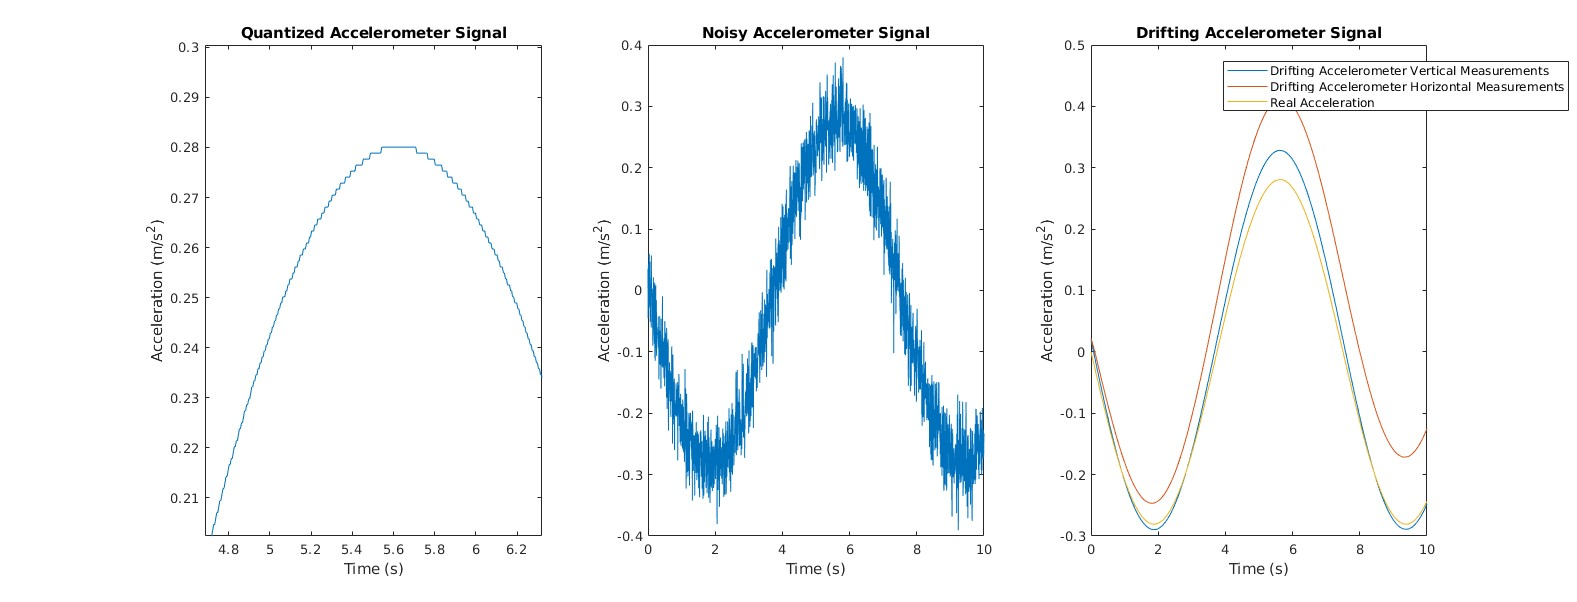
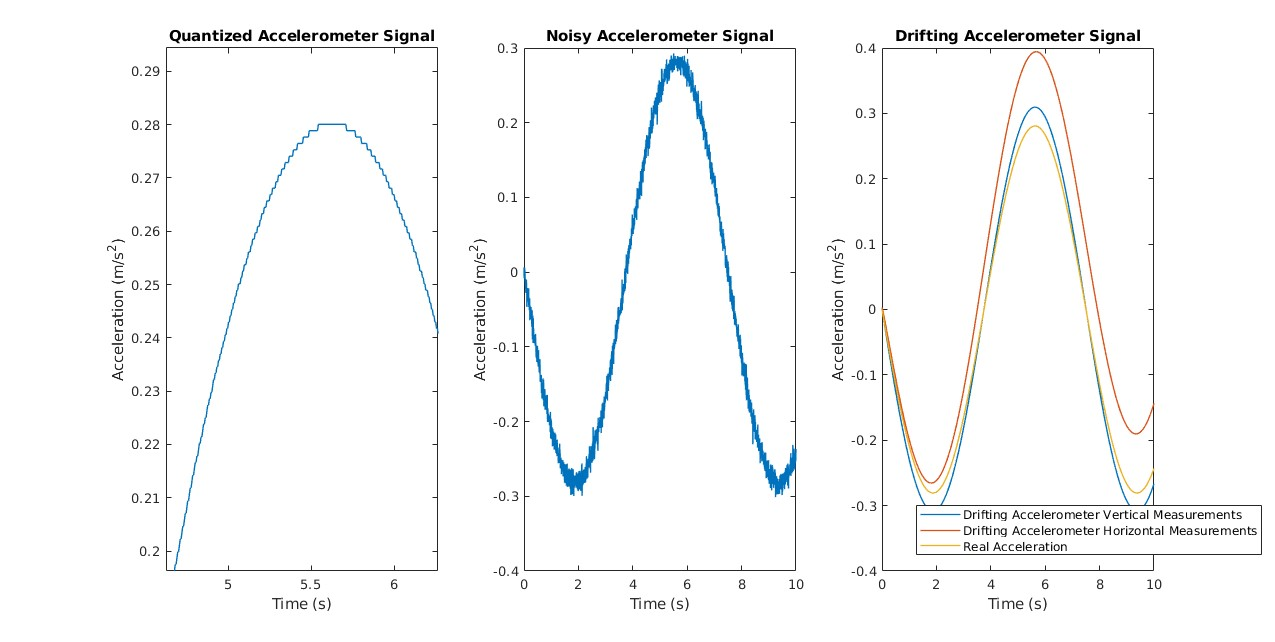
Adding final error analysis.

diff --git a/controlSystemsTesting.m b/controlSystemsTesting.m
@@ -23,6 +23,12 @@ specs.beta = 2*pi/T; % wave frequency [rad/s]
 imx_5_specs
 
 specs.g = a.g;
+% specs.accel_noiseDensity = 0;
+% specs.gyro_noiseDensity = 0;
+% specs.accel_resolution = 0.000001;
+% specs.gyro_resolution = 0.000001;
+% specs.accel_noiseDensity = specs.accel_noiseDensity / 100;
+% specs.gyro_noiseDensity = specs.gyro_noiseDensity / 100;
 a.specs = specs;
 
 % Measured signal
@@ -56,7 +62,9 @@ a.drift_error_accel_horz = @(t, n_a, quant_noise_accel, theta_err, p_ddot) (1 + 
 a.drift_error_gyro = @(t, n_g, quant_noise_gyro, theta_err, p_thetadot) (1 + specs.k)*a.quant_noise_gyro(t, a.gyro_quantized, p_thetadot) + specs.b_g + a.n_g(t);
 
 % Simulation time
-tspan = [0 10]; % [s]
+% startTime = T/4;
+startTime = 0;
+tspan = [startTime 10]; % [s]
 
 % Initial States
 p0 =  a.d(tspan(1))+a.pr_d;   % Platform position [m]
@@ -67,8 +75,7 @@ pm_dot = p_dot0;              % Platform integrated velocity [m/s]
 pm_ddot = a.d_ddot(tspan(1)); % Platform measured acceleration [m*s^-2]
 p_theta0 = a.real_ang(tspan(1)); % Platform inertial angle [deg]
 
-s0 = [p0; p_dot0; pr_err_accum0; pm0; pm_dot; pm_ddot; p_theta0];
-
+s0 = [p0; p_dot0; pr_err_accum0; pm0; pm_dot; pm_ddot];
 
 % Plotting readl disturbance vs measured disturbance
 
@@ -77,12 +84,34 @@ a.fi1 = axes;
 xlabel('Time (s)')
 ylabel('Drift (m/s^-2)')
 title('Vertical Accelerometer Signal vs Time')
+%% Running simulations
+
+
+% Running Simulation
+op = odeset('RelTol',1e-8,'AbsTol',1e-8); % Tolerance options
+[t_reg, s_reg] = ode15s(@(t,s)noError(t,s,a),tspan,s0,op);
+
+s0 = [p0; p_dot0; pr_err_accum0; pm0; pm_dot; pm_ddot; p_theta0];
 
 % Running Simulation
 op = odeset('RelTol',1e-8,'AbsTol',1e-8); % Tolerance options
 [t, s] = ode15s(@(t,s)rigidArmControl(t,s,a),tspan,s0,op);
 
 % plot(a.fi1, t,a.real_accel(t), color='black')
+
+% Feeding states back through EOM to calculating inertial acceleration of
+% the platfor
+p_ddot = zeros(size(t));
+p_thetadot = zeros(size(t));
+for i = 1:length(t)
+    s_dot = rigidArmControl(t(i),s(i,:),a);
+    p_ddot(i) = s_dot(2);
+    p_thetadot(i) = s_dot(7);
+end
+
+%% Plotting
+
+% With error ------------------------------------------------------------
 
 % Plotting Position vs Time and Acceleration vs Time
 figure;
@@ -92,11 +121,14 @@ sgtitle('Inertial Stability Performance')
 subplot(1,3,1);
 plot(t,s(:,1))
 hold on
+plot(t_reg, s_reg(:,1))
+hold on
 plot(t,a.d(t))
+xlim([0 .3])
 title('Inertial Position vs Time')
 xlabel('Time (s)')
 ylabel('Position (m)')
-legend('Platform', 'Deck','Location','southeast')
+legend('Platform with Error', 'Platform without Error', 'Deck','Location','southeast')
 
 % Position
 subplot(1,3,2);
@@ -110,15 +142,6 @@ legend('Platform', 'Deck','Location','southeast')
 
 % Acceleration
 subplot(1,3,3);
-% Feeding states back through EOM to calculating inertial acceleration of
-% the platfor
-p_ddot = zeros(size(t));
-p_thetadot = zeros(size(t));
-for i = 1:length(t)
-    s_dot = rigidArmControl(t(i),s(i,:),a);
-    p_ddot(i) = s_dot(2);
-    p_thetadot(i) = s_dot(7);
-end
 plot(t,p_ddot)
 hold on
 plot(t,a.d_ddot(t))
@@ -128,7 +151,7 @@ yline(-p_ddot_max,'--')
 title('Inertial Acceleration vs Time')
 xlabel('Time (s)')
 ylabel('Acceleration (m/s^2)')
-legend('Platform', 'test', 'Platform Measurement', 'Deck','Location','southeast')
+legend('Platform', 'Platform Measurement', 'Deck','Location','southeast')
 
 figure;
 subplot(1,2,1)
@@ -162,6 +185,47 @@ xlabel('Time (s)')
 ylabel('Position (m)')
 legend('','Full Inertial','Relative Position','')
 
+%% Plotting error
+
+sim_t = round(t(end),1);
+time_index = find(round(t_reg,2) == round(sim_t,2));
+plat_err = s(:,1);
+plat_no_err = s_reg(:,1);
+pos_err_worse = zeros(1, time_index);
+pos_err_avg = zeros(1, time_index);
+
+figure;
+plot(t,s(:,1))
+hold on
+plot(t_reg(1:time_index), s_reg(1:time_index,1))
+title('Relative Position vs Time')
+xlabel('Time (s)')
+ylabel('Position (m)')
+legend('Platform Position with Error', 'Platform Position without Error')
+
+for i=1:time_index
+    platform_without_err = round(plat_no_err(i),2);
+    integrated_index = find(round(plat_err,2) == platform_without_err);
+    platform_with_err = plat_err(integrated_index);
+    all_err = abs(platform_with_err - platform_without_err);
+    pos_err_worse(i) = max(all_err);
+    pos_err_avg(i) = mean(all_err);
+end
+
+figure
+subplot(2,1,1)
+plot(t_reg(1:time_index), pos_err_worse*100)
+title('Worst Relative Position Error vs Time')
+xlabel('Time (s)')
+ylabel('Error (cm)')
+
+subplot(2,1,2)
+plot(t_reg(1:time_index), pos_err_avg*100)
+title('Average Relative Position Error vs Time')
+xlabel('Time (s)')
+ylabel('Error (cm)')
+
+%%
 
 function s_dot = rigidArmControl(t, s, a)
 % rigidArmControl is the EOM for the 1 DOF model of the inertially
@@ -214,7 +278,6 @@ if t > specs.accel_resolution
     measuredState = [measured_a_x measured_a_y measured_a_z measured_g_x measured_g_y measured_g_z];
     corrected_a = compensateError(measuredState, specs, t);
     
-    % Error is way too high!
     pm_ddot_error = pm_ddot - corrected_a(3);
     p_thetadot_error = p_thetadot - corrected_a(4);
 
@@ -389,4 +452,92 @@ function state = compensateError(measuredState, specs, time)
     state(1:3) = corrected_a';
     state(4:6) = corrected_g';
     
+end
+
+
+function s_dot = noError(t, s, a)
+% rigidArmControl is the EOM for the 1 DOF model of the inertially
+% stabilized platform. It uses inertial acceleration control when the
+% platform is close to the center of the operation region, and uses PID
+% control on the relative position as the platform goes closer to the
+% operational bounderies
+%
+% Inputs:   t    = current time
+%           s    = vector of states
+%                = [p; p_dot; pr_err_accum] where p is the inertial position 
+%                  of the platform, pdot is the inertial velocity of the 
+%                  platform, and pr_err_accum is the integral of the error 
+%                  in the relative position of the platform
+%           a    = structure containing environmental constants and gain
+%                  values
+% Outputs:  sdot = time derivative of input state vector
+%                = [p_dot; p_ddot; pr_err] where pdot is the inertial 
+%                  velocity of the platform, p_ddot is the inertial 
+%                  acceleration of the platform,and pr_err is the error in 
+%                  the relative position of the platform
+
+% Current states
+p = s(1);
+p_dot = s(2);
+pr_err_accum = s(3);
+pm = s(4);
+pm_dot = s(5);
+pm_ddot = s(6);
+
+% Error in relative position (distance to center of operation region)
+pr = pm-a.d(t);
+pr_err = pr-a.pr_d;
+
+% For testing gains without mixing proportions
+% ka = a.ka; % Acceleration [kg]
+% kv = a.kv; % Velocity     [kg/s]
+% ks = a.ks; % Position     [kg*s^-2]
+% kp = a.kp; % Proportional [kg*s^-2]
+% kd = a.kd; % Derivative   [kg/s]
+% ki = a.ki; % Integral     [kg*s^-3]
+
+% Control gain proportions
+
+I = a.I(pr); % Proportion of inertial stability control to apply
+ka = a.ka*I; % Acceleration [kg]
+kv = a.kv*I; % Velocity     [kg/s]
+ks = a.ks*I; % Position     [kg*s^-2]
+
+k = a.K(pr);     % Proportion of relative position control to apply
+k_h = a.K_h(pr);
+kp = a.kp*k_h;     % Proportional [kg*s^-2]
+kd = a.kd*k_h;     % Derivative   [kg/s]
+ki = a.ki*k_h;     % Integral     [kg*s^-3]
+
+% Derivative of states
+s_dot = zeros(6,1);
+
+% Derivative of position
+s_dot(1) = p_dot;  % inertial velocity
+s_dot(4) = pm_dot; % measured inertial velocity
+
+% Control Law
+
+% Inertial stability control force
+c_i = a.initial_scale(t); % Initial scale of gains
+f_i = -(ka*pm_ddot + kv*pm_dot + ks*pm)*c_i;
+% Relative position control force
+f_pr = -(kp*pr_err + ki*pr_err_accum + kd*(pm_dot-a.d_dot(t)));
+
+% Platform EOM
+p_ddot = (f_i+f_pr) / a.m;
+
+% Derivative of velocity
+s_dot(2) = p_ddot; % Inertial acceleration
+s_dot(5) = pm_ddot; % Measured inertial acceleration
+
+% Derivative of measured inertial acceleration
+s_dot(6) = a.omega*(p_ddot - pm_ddot);
+
+% Error in relative position
+s_dot(3) = pr_err;
+
+err_v=abs(p_dot-pm_dot);
+err_a=abs(p_ddot-pm_ddot);
+
 end

diff --git a/error_drift.m b/error_drift.m
@@ -21,7 +21,7 @@ real_ang_rate = @(t) 180/pi*(-(alpha*beta^2*sin(beta*t))./(alpha^2*beta^2*(cos(b
 %   IMX-5: https://docs.inertialsense.com/datasheets/IMX-5_IMU_AHRS_GNSS-INS_Datasheet.pdf
 
 % Simulation time
-tspan = [0 40]; % [s]
+tspan = [0 10]; % [s]
 steps = 2000;
 timestep = tspan(1)/steps;
 t = linspace(0, tspan(2), steps);
@@ -41,7 +41,8 @@ gyro_samplingRate = specs.gyro_samplingRate;
 gyro_noiseDensity = specs.gyro_noiseDensity;
 b_a = specs.b_a;
 VRW = specs.VRW;
-b_g = specs.b_g;
+specs.b_g = 0;
+b_g = specs.b_g; 
 ARW = specs.ARW;
 accel_bandwidth = specs.accel_bandwidth;
 gyro_bandwidth = specs.gyro_bandwidth;
@@ -456,7 +457,7 @@ yyaxis left
 plot(t, accel_LSB)
 hold on
 xlabel("Time (s)")
-ylabel("Accuracy (%)")
+ylabel("Precision Error (Bits)")
 title("Number of Acceleration Bits of Error (with correction)")
 
 yyaxis right
@@ -469,7 +470,7 @@ yyaxis left
 plot(t, gyro_LSB)
 hold on
 xlabel("Time (s)")
-ylabel("Accuracy (%)")
+ylabel("Precision Error (Bits)")
 title("Number of Gyroscope Bits of Error (with correction)")
 
 yyaxis right
